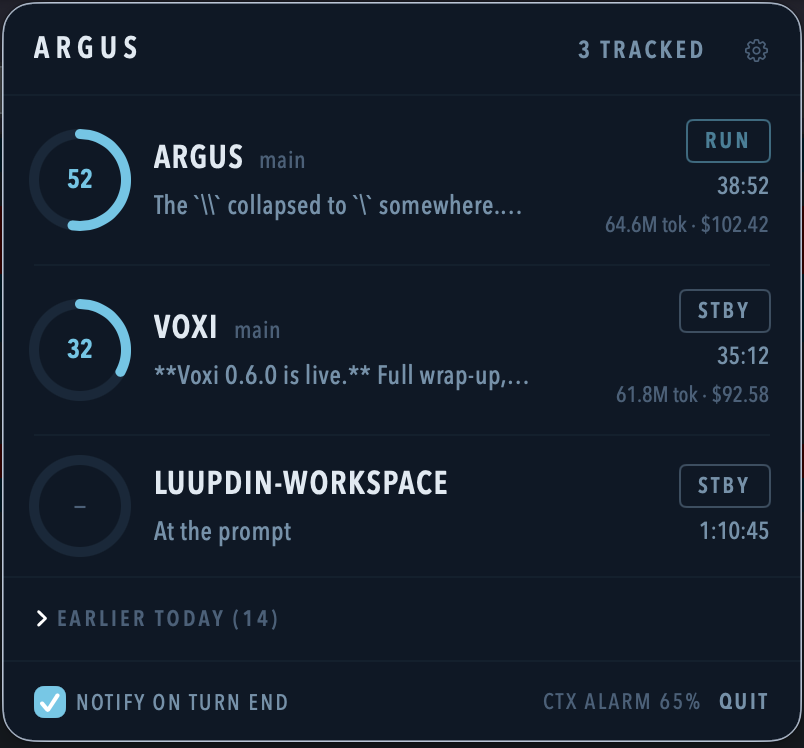
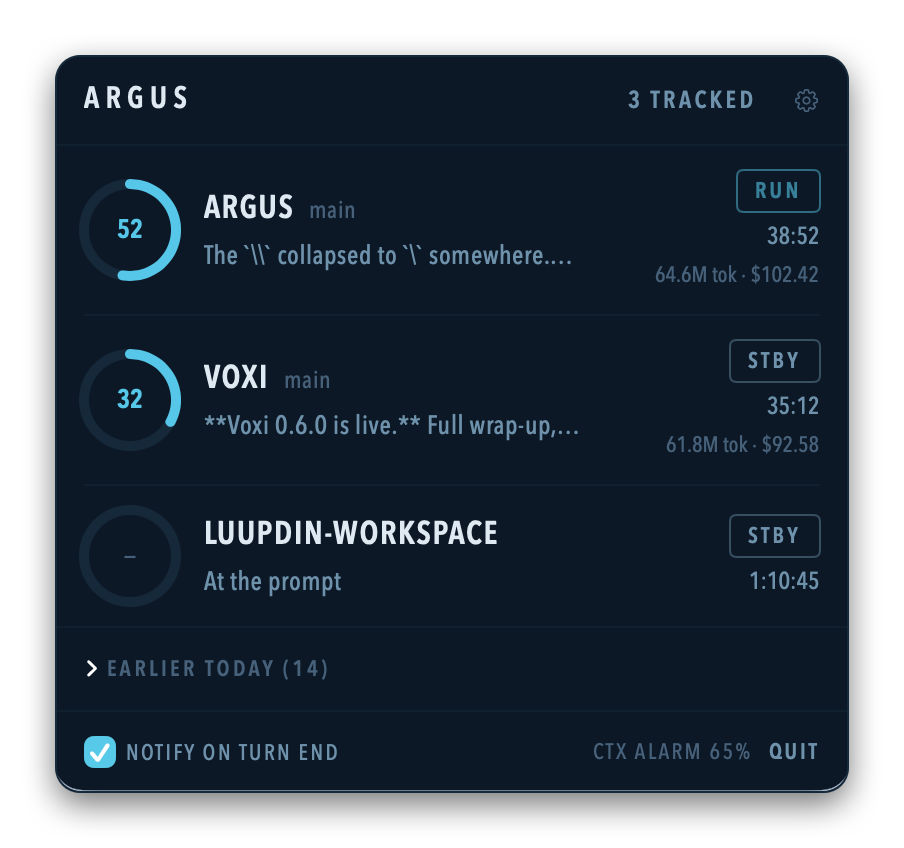
docs: polished hero pair — framed screenshot beside branded pipeline SVG
Screenshot reprocessed via a small AppKit script (edge-crop, rounded
corners, drop shadow, hairline border). Mermaid replaced with a
hand-built Flight Deck SVG (SIGNAL PATH) matching the app's own tokens;
both sit side by side at equal height in the hero.

Claude-Session: https://claude.ai/code/session_01KRUdHW3WBDHMhjwLgWbBYe

diff --git a/README.md b/README.md
@@ -22,7 +22,12 @@ That's the job here. You're running four Claude Code sessions across four repos,
 
 Argus tells you.
 
-<p align="center"><img src="docs/assets/screenshot.png" width="440" alt="The Argus popover: session rows with context ring gauges, annunciators, elapsed time, and token cost"></p>
+<table>
+<tr>
+<td width="50%"><img src="docs/assets/screenshot.png" alt="The Argus popover: session rows with context ring gauges, annunciators, elapsed time, and token cost"></td>
+<td width="50%"><img src="docs/assets/pipeline.svg" alt="Signal path: Claude Code hook events append to a daily JSONL log, which Argus tails to rebuild session state and render the menu bar popover"></td>
+</tr>
+</table>
 
 ## A glass cockpit for your sessions
 
@@ -44,15 +49,7 @@ The menu bar icon is the summary instrument: an exclamation eye with the blocked
 
 ## How it works
 
-```mermaid
-flowchart TD
-    A["Claude Code lifecycle events (7 hook points)"]
-    B["hooks/argus-hook.sh<br/>one JSON line per event, ~10ms, always exits 0"]
-    C["events-YYYYMMDD.jsonl<br/>~/Library/Application Support/Argus/"]
-    D["Argus.app<br/>rebuilds session state · enriches from transcripts · checks pid liveness"]
-    E["Menu bar + popover<br/>notifications · click-to-focus iTerm2"]
-    A --> B --> C -->|tail| D --> E
-```
+The signal path above is the whole architecture: hooks in, log file, one app tailing it.
 
 - **The hook** is ~50 lines of dependency-free bash that appends one JSON line per Claude Code lifecycle event: `SessionStart`, `UserPromptSubmit`, `PreToolUse`, `PostToolUse`, `Notification`, `Stop`, `SessionEnd`. It also captures `ITERM_SESSION_ID` (click-to-focus) and `$PPID` (liveness). It runs synchronously inside your sessions, so it is built to be unnoticeable: no forks, ~10ms, always exits 0.
 - **The app** never scrapes terminals. All state comes from the event log, transcript files, and liveness checks. A process is identified by `(pid, kernel start time)`, never by name, because the Claude CLI sets its process title to a bare version string.
